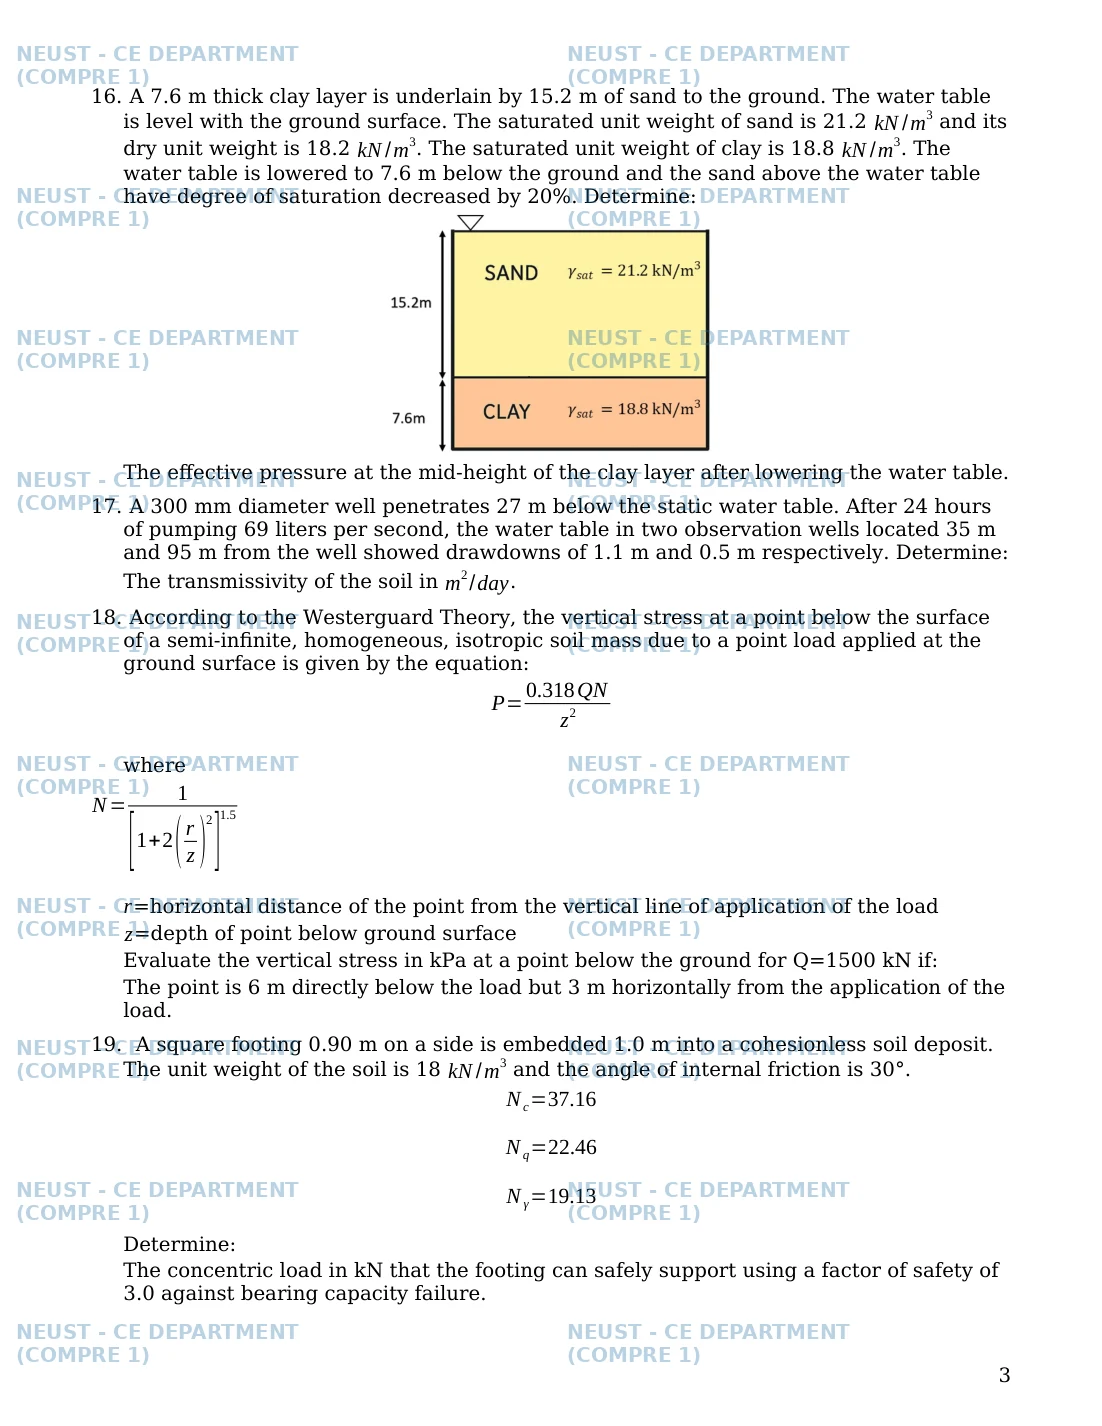
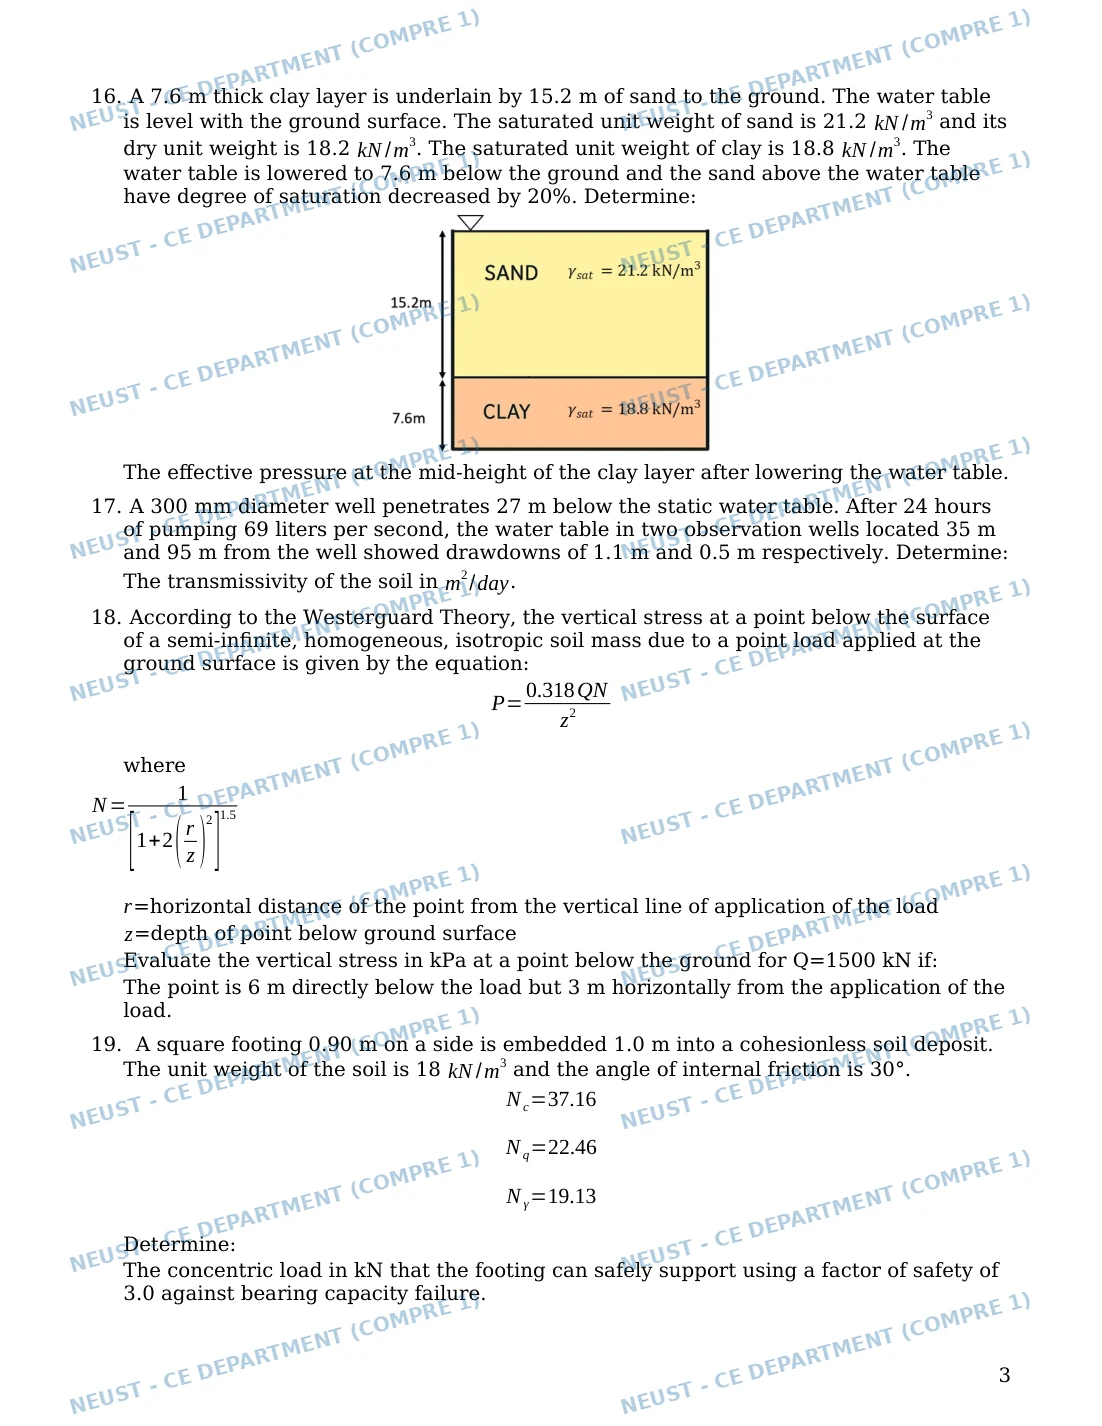
deploy: 536376cd211c2b25e5775352d4b1d1b690fefe84

diff --git a/scripts/build_image_previews.py b/scripts/build_image_previews.py
@@ -30,13 +30,19 @@ for year in (2017,2018):
         pix=page.get_pixmap(matrix=fitz.Matrix(1.8,1.8),alpha=False)
         base=Image.frombytes('RGB',(pix.width,pix.height),pix.samples).convert('RGBA')
         layer=Image.new('RGBA',base.size,(255,255,255,0))
-        painter=ImageDraw.Draw(layer)
+        label='NEUST - CE DEPARTMENT (COMPRE 1)'
+        # One-line watermark, rotated 15 degrees counter-clockwise from the +x axis.
+        bbox=font.getbbox(label)
+        pad=18
+        stamp=Image.new('RGBA',(bbox[2]-bbox[0]+pad*2,bbox[3]-bbox[1]+pad*2),(255,255,255,0))
+        ImageDraw.Draw(stamp).text((pad-bbox[0],pad-bbox[1]),label,font=font,fill=(26,107,163,82))
+        stamp=stamp.rotate(15,expand=True,resample=Image.Resampling.BICUBIC)
+        # Two columns; each watermark is centered on its half-page column.
         for row in range(10):
+            cy=int((row+0.5)*base.height/10)
             for col in range(2):
-                x=int((col+0.03)*base.width/2)
-                y=42+row*int(base.height/10)
-                painter.text((x,y),'NEUST - CE DEPARTMENT',font=font,fill=(26,107,163,78))
-                painter.text((x,y+23),'(COMPRE 1)',font=font,fill=(26,107,163,78))
+                cx=int((col+0.5)*base.width/2)
+                layer.alpha_composite(stamp,(cx-stamp.width//2,cy-stamp.height//2))
         image=Image.alpha_composite(base,layer).convert('RGB')
         image.save(ROOT/'pages'/f'{year}-{index+1}.webp','WEBP',quality=87,method=6)
     (ROOT/f'{year}-page-count.txt').write_text(str(len(pdf)))
